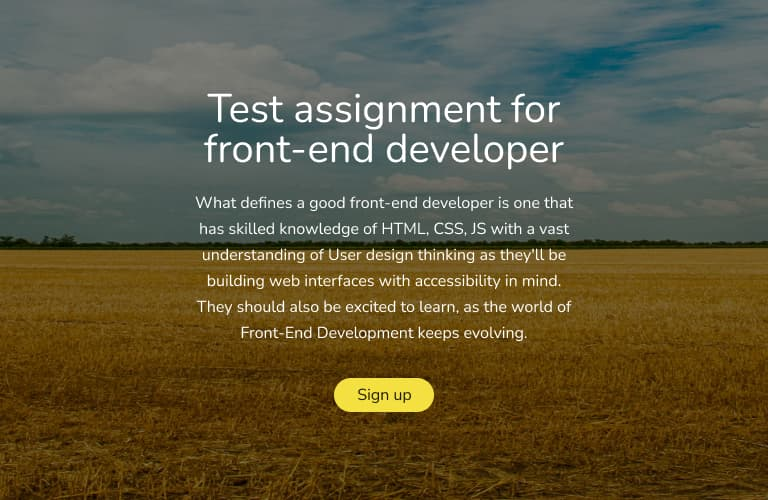
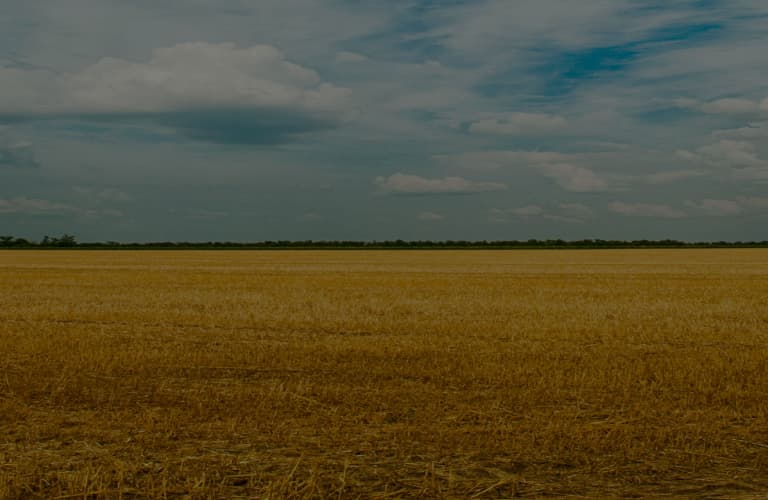
responsive done 2 hours

diff --git a/src/components/Hero/Hero.module.scss b/src/components/Hero/Hero.module.scss
@@ -2,18 +2,52 @@
 @import "../../sass/colors";
 
 .heroSection {
-  background: url("../../img/hero/mob.jpg");
-  box-sizing: border-box;
-  background-position: center bottom;
-  padding: 40px 16px 71px;
+  min-width: 100%;
+  background-image: url("../../img/hero/mob.jpg");
+  background-position: center;
+  background-size: cover;
+  background-repeat: no-repeat;
   margin-bottom: 140px;
 
+  @include x2() {
+    background-image: url("../../img/hero/mob@2x.jpg");
+  }
+
   @include mq(tab) {
-    background: url("../../img/hero/tab.jpg");
+    background-image: url("../../img/hero/tab.jpg");
+    // padding: 0;
+    @include x2() {
+      background-image: url("../../img/hero/tab@2x.jpg");
+    }
+  }
+
+  @include mq(lap) {
+    background-image: url("../../img/hero/lap.jpg");
+    @include x2() {
+      background-image: url("../../img/hero/lap@2x.jpg");
+    }
   }
 
   @include mq(desk) {
-    background: url("../../img/hero/desk.jpg");
+    background-image: url("../../img/hero/desk.jpg");
+    min-width: 1170px;
+    margin: 0 auto 140px;
+    @include x2() {
+      background-image: url("../../img/hero/desk@2x.jpg");
+    }
+  }
+}
+
+.textContainer {
+  padding: 40px 16px 71px;
+
+  @include mq(tab) {
+    width: 380px;
+    margin: 0 auto;
+    padding: 89px 0 88px;
+  }
+  @include mq(lap) {
+    padding: 164px 0 163px;
   }
 }
 
@@ -27,13 +61,4 @@
   color: getColor("white");
   text-align: center;
   margin-bottom: 32px;
-}
-
-@media (min-device-pixel-ratio: 2),
-  (-webkit-min-device-pixel-ratio: 2),
-  (min-resolution: 192dpi),
-  (min-resolution: 2dppx) {
-  .heroSection {
-    background: url("../../img/hero/mob@2x.jpg");
-  }
 }

diff --git a/src/components/Hero/Hero.jsx b/src/components/Hero/Hero.jsx
@@ -11,15 +11,17 @@ export const Hero = ({ onResetForm }) => {
   };
   return (
     <section className={css.heroSection}>
-      <h1 className={css.title}>Test assignment for front-end developer</h1>
-      <p className={css.descripton}>
-        What defines a good front-end developer is one that has skilled
-        knowledge of HTML, CSS, JS with a vast understanding of User design
-        thinking as they'll be building web interfaces with accessibility in
-        mind. They should also be excited to learn, as the world of Front-End
-        Development keeps evolving.
-      </p>
-      <Button label="Sign up" clickHandler={resetUserForm} />
+      <div className={css.textContainer}>
+        <h1 className={css.title}>Test assignment for front-end developer</h1>
+        <p className={css.descripton}>
+          What defines a good front-end developer is one that has skilled
+          knowledge of HTML, CSS, JS with a vast understanding of User design
+          thinking as they'll be building web interfaces with accessibility in
+          mind. They should also be excited to learn, as the world of Front-End
+          Development keeps evolving.
+        </p>
+        <Button label="Sign up" clickHandler={resetUserForm} />
+      </div>
     </section>
   );
 };

diff --git a/src/sass/_mixins.scss b/src/sass/_mixins.scss
@@ -1,10 +1,8 @@
-// @import "./colors";
-
 @mixin mq($type) {
   $mobile: 360px;
   $tablet: 768px;
   $laptop: 1024px;
-  $desktop: 1440px;
+  $desktop: 1170px;
 
   @if $type == "mob" {
     @media screen and (min-width: $mobile) {
@@ -14,26 +12,32 @@
 
   @if $type == "tab" {
     @media screen and (min-width: $tablet) {
+      max-width: $tablet;
       @content;
     }
   }
 
-  //   @if $type == "tab-only" {
-  //     @media screen and (min-width: $tablet) and (max-width: ($desktop - 0.02)) {
-  //       @content;
-  //     }
-  //   }
-
   @if $type == "lap" {
     @media screen and (min-width: $laptop) {
+      max-width: $laptop;
       @content;
     }
   }
 
   @if $type == "desk" {
     @media screen and (min-width: $desktop) {
+      max-width: $desktop;
       @content;
     }
+  }
+}
+
+@mixin x2() {
+  @media (min-device-pixel-ratio: 2),
+    (-webkit-min-device-pixel-ratio: 2),
+    (min-resolution: 192dpi),
+    (min-resolution: 2dppx) {
+    @content;
   }
 }
 

diff --git a/src/components/CardsList/CardList.module.scss b/src/components/CardsList/CardList.module.scss
@@ -1,11 +1,28 @@
+@import "../../sass/mixins";
+@import "../../sass/colors";
+
 .usersList {
   display: flex;
+  min-width: 100%;
   flex-direction: column;
   align-items: center;
+  justify-content: space-between;
   gap: 20px;
   margin-bottom: 50px;
+
+  @include mq(tab) {
+    flex-direction: row;
+    flex-wrap: wrap;
+  }
 }
 
 .listItem {
   width: 100%;
+  @include mq(tab) {
+    width: 344px;
+  }
+
+  @include mq(lap) {
+    width: 282px;
+  }
 }

diff --git a/src/index.scss b/src/index.scss
@@ -24,12 +24,14 @@ body {
 
   @include mq(tab) {
     padding: 0 32px;
-    max-width: 768px;
+  }
+
+  @include mq(lap) {
+    padding: 0 60px;
   }
 
   @include mq(desk) {
-    padding: 0 152px;
-    max-width: 1440px;
+    padding: 0;
   }
 }
 
